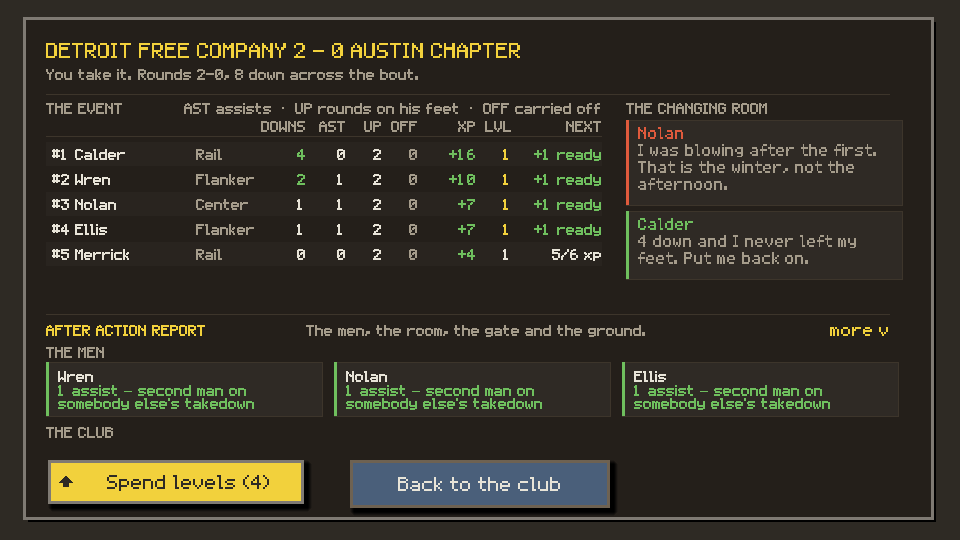
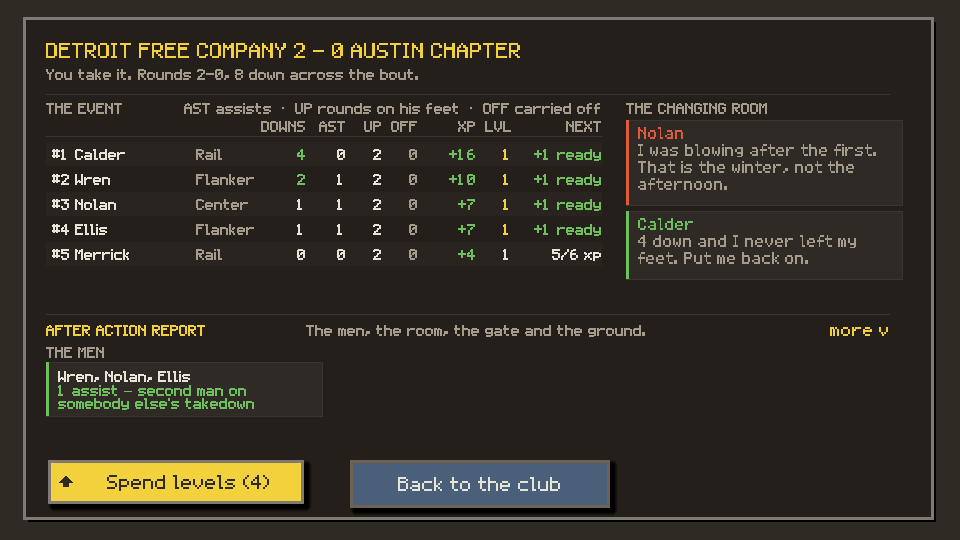
Before/after fixes: +1s gold as one primary group, report caption only over whole cards, identical notes merge across men, Buy a slot fills its row, roster kit label padding; register 30.49
Claude-Session: https://claude.ai/code/session_01PvoGJDmZvsa8VzcYhFpLtv

diff --git a/docs/REGISTER.md b/docs/REGISTER.md
@@ -9114,3 +9114,4 @@ Six independent auditors graded the game C− (project doc `grading-28-sep.md`).
 | 30.46 | The body face had no descenders (g read as 9: "Settinas") and no `& < > = " * [ ] _ \| ~ ^`, so those fell back to LanaPixel at half size mid-sentence. | **locked** — `tools/fix_descenders.py`, `tools/add_glyphs.py` (idempotent) on BuhurtRail; brackets kept 2 px wide so pseudo-loc headroom holds (test_untranslated caught the 3 px version). |
 | 30.47 | A disabled button was a dark flat box with no drop: it read as a text field. | **locked** — `UiKit.skin` disabled = the button shape and drop, colour drained. |
 | 30.48 | **The screen checklist** (`tests/test_checklist.gd`, in the shape sweep): blind reviews had plateaued at 7.3 and contradicted each other, so the rules they agreed on for 3+ rounds are pass/fail. C1 no text under 12 px · C2 text ≥ 4.5:1 · C3 one gold primary, never a disabled one · C4 a price over the purse is grey (full and empty purse both swept; pickers ending ">" exempt) · C5 no empty band over 20% of a phone frame. First run found: the NORMAL palette's red at 4.43:1, four gold +1s on the fighter page, a gold-and-dead Save, a live Reroll/Take at 0 CC. Judged by eye still: bars and ticks labelled — armorer tick ("min" on the heading), roster card bars ("kit N%"), level bar ("Earned…"). | **locked** — NORMAL `down` e05a3c → e8664a (5.0:1); +1s carry the up mark; Save gold only when dirty; Reroll/Take grey when short; `UiKit.ledger_art` so a logo counts as content. |
+| 30.49 | Before/after review of item 2 (10 screens: 4 better, 4 unchanged by design — the fixture's purse covers every price — 2 worse). Worse: the fighter's +1s lost their gold; the report's "THE CLUB" caption sat over nothing and three men's identical "1 assist" read as three cards. | **locked** — the +1s are gold as one `primary_group` (C3 counts a group once); a news caption draws only with a whole card under it; identical notes merge into one card naming every man. |
